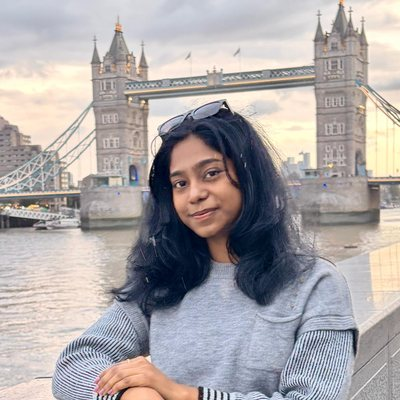
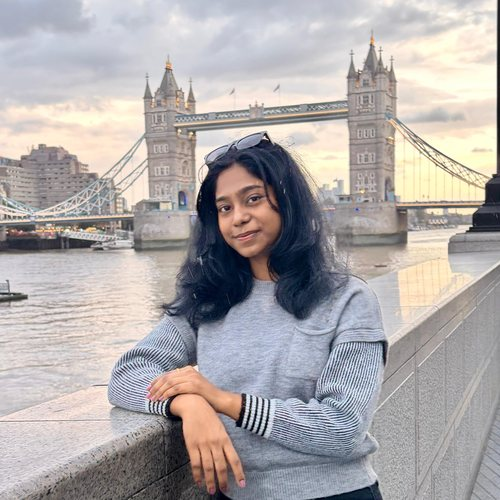
Widen the hero headshot so Tower Bridge is fully in frame (#2)
Re-crop the circular portrait from a wider square (both towers, walkway
and suspension spans inside the circle), and grow the circle from 260px
to 300px to compensate.

diff --git a/client/src/pages/Home.tsx b/client/src/pages/Home.tsx
@@ -66,12 +66,12 @@ export default function Home() {
                   {person.photo ? (
                     <img
                       src={person.photo}
-                      srcSet={`${person.photoSmall} 400w, ${person.photo} 800w`}
-                      sizes="(min-width: 768px) 260px, 180px"
-                      alt={person.fullName}
+                      srcSet={`${person.photoSmall} 500w, ${person.photo} 1000w`}
+                      sizes="(min-width: 768px) 300px, 220px"
+                      alt={`${person.fullName} by the Thames, Tower Bridge behind`}
                       className="portrait"
-                      width={260}
-                      height={260}
+                      width={300}
+                      height={300}
                       fetchPriority="high"
                     />
                   ) : (

diff --git a/client/src/index.css b/client/src/index.css
@@ -320,7 +320,7 @@
   .avatar-wrap { position: relative; width: max-content; justify-self: center; }
   .portrait {
     display: block;
-    width: clamp(180px, 20vw, 260px);
+    width: clamp(220px, 22vw, 300px);
     aspect-ratio: 1;
     object-fit: cover;
     border-radius: 50%;
